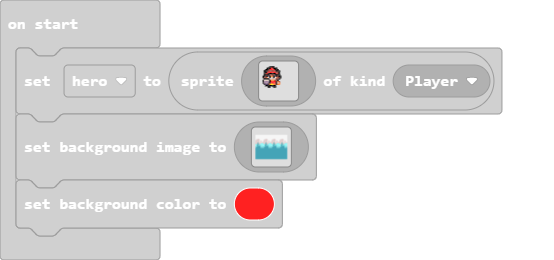
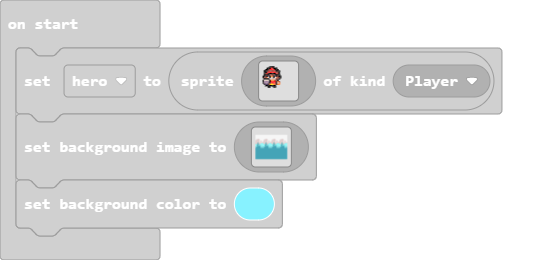
Update main.blocks, main.ts

Changed region(s): [[0.3989, 0.7077, 0.5217, 0.8615]]

diff --git a/main.ts b/main.ts
@@ -285,4 +285,4 @@ scene.setBackgroundImage(img`
     6666666666666666666666666666666666666666666666666666666666666666666666666666666666666666666666666666666666666666666666666666666666666666666666666666666666666666
     6666666666666666666666666666666666666666666666666666666666666666666666666666666666666666666666666666666666666666666666666666666666666666666666666666666666666666
     `)
-scene.setBackgroundColor(2)
+scene.setBackgroundColor(9)
